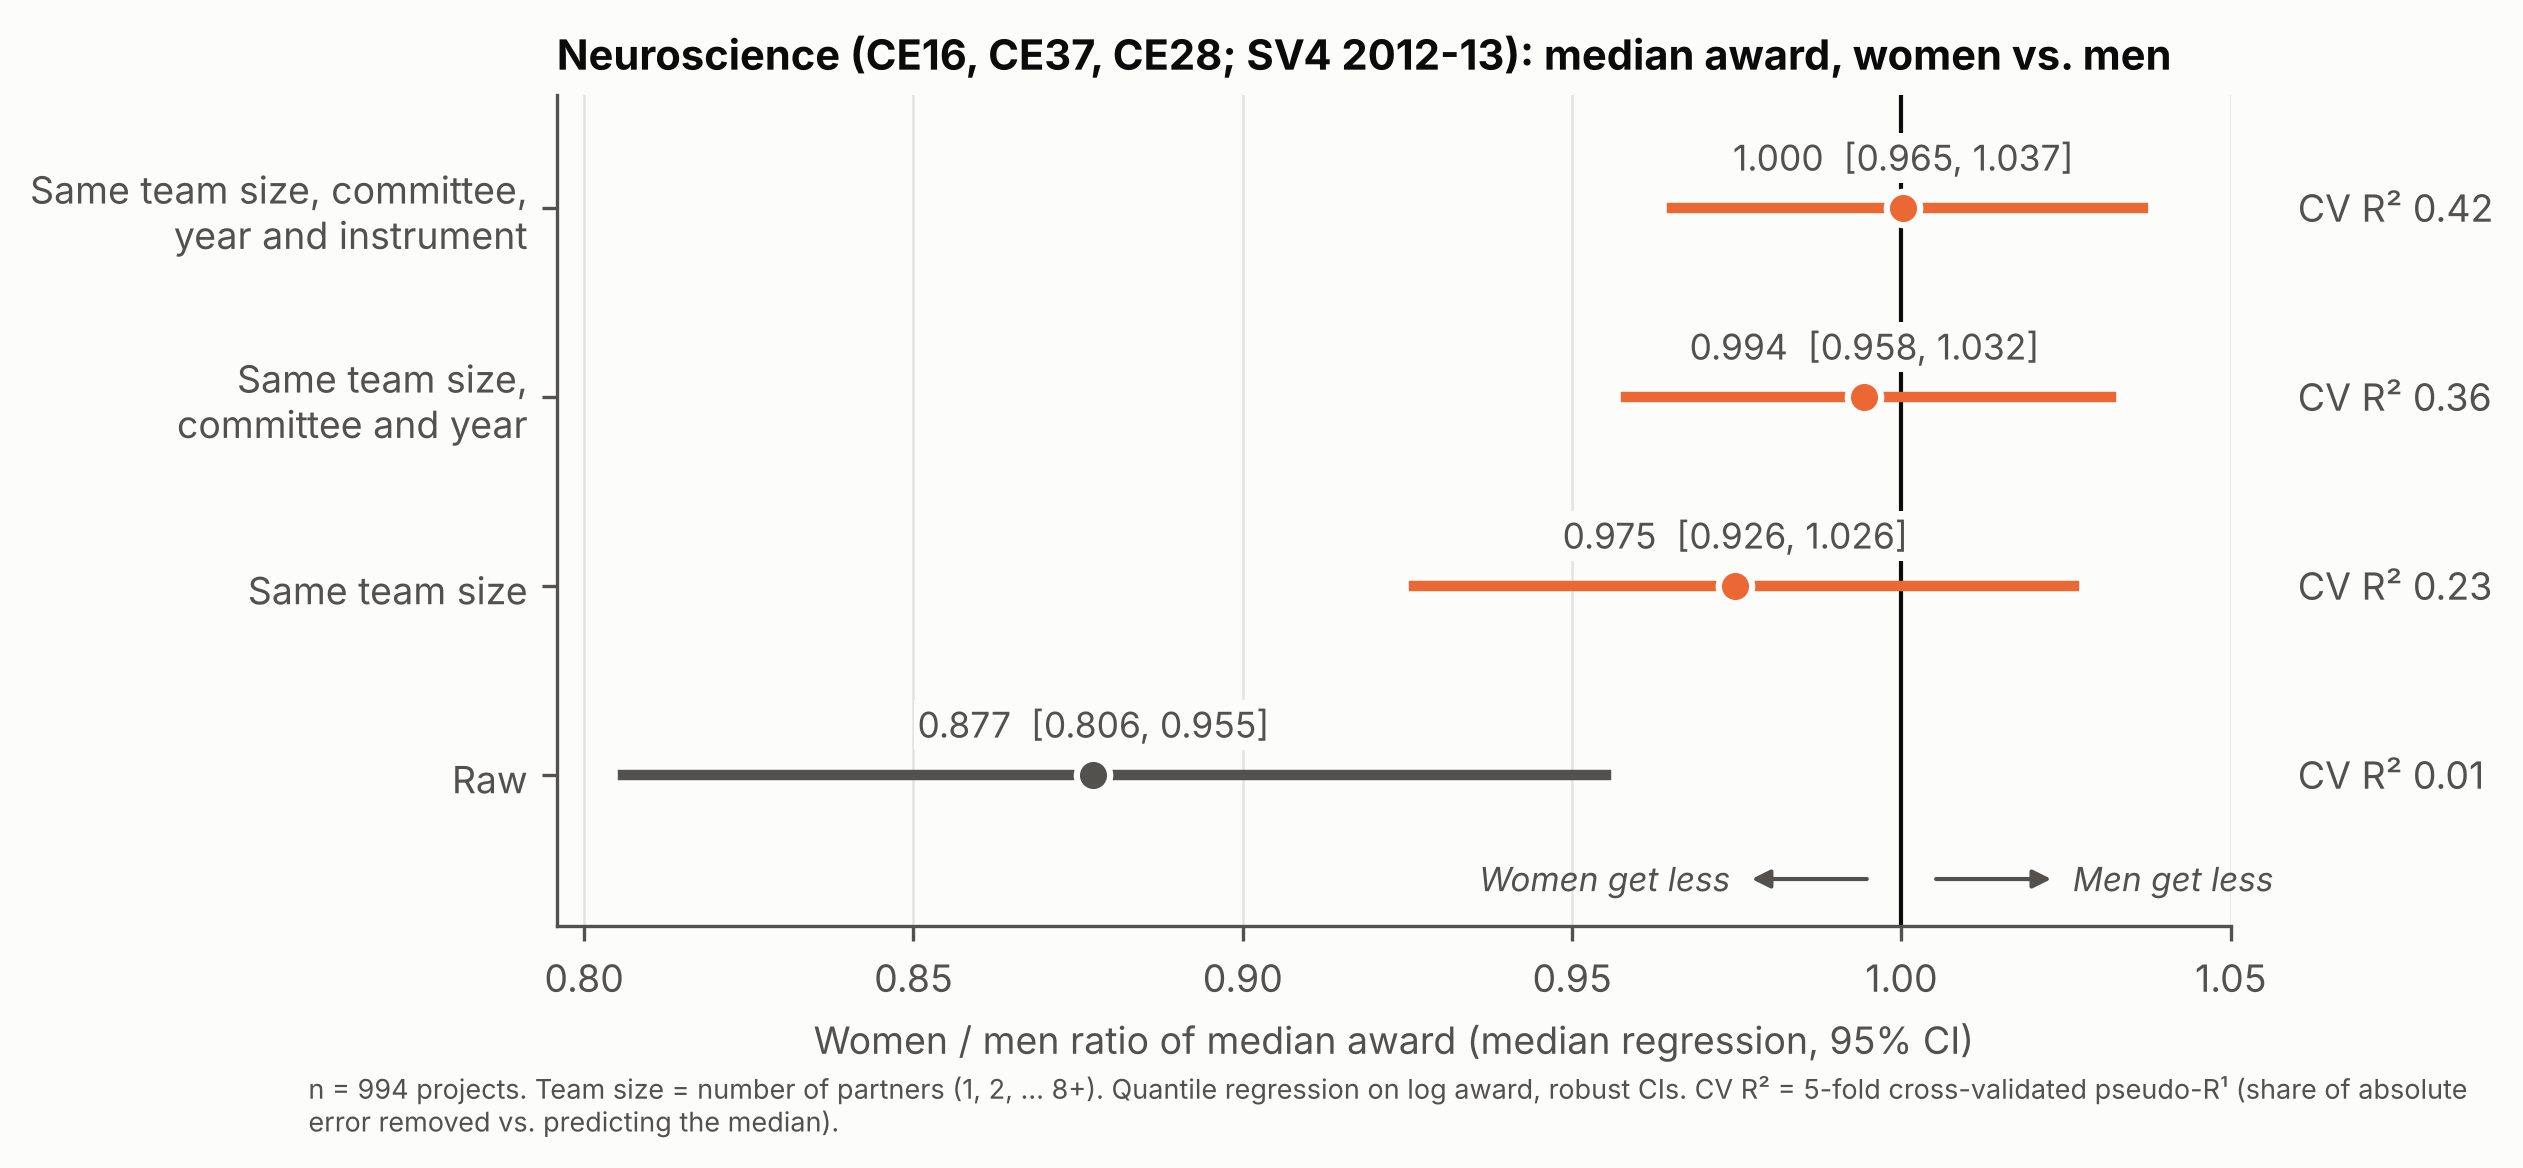
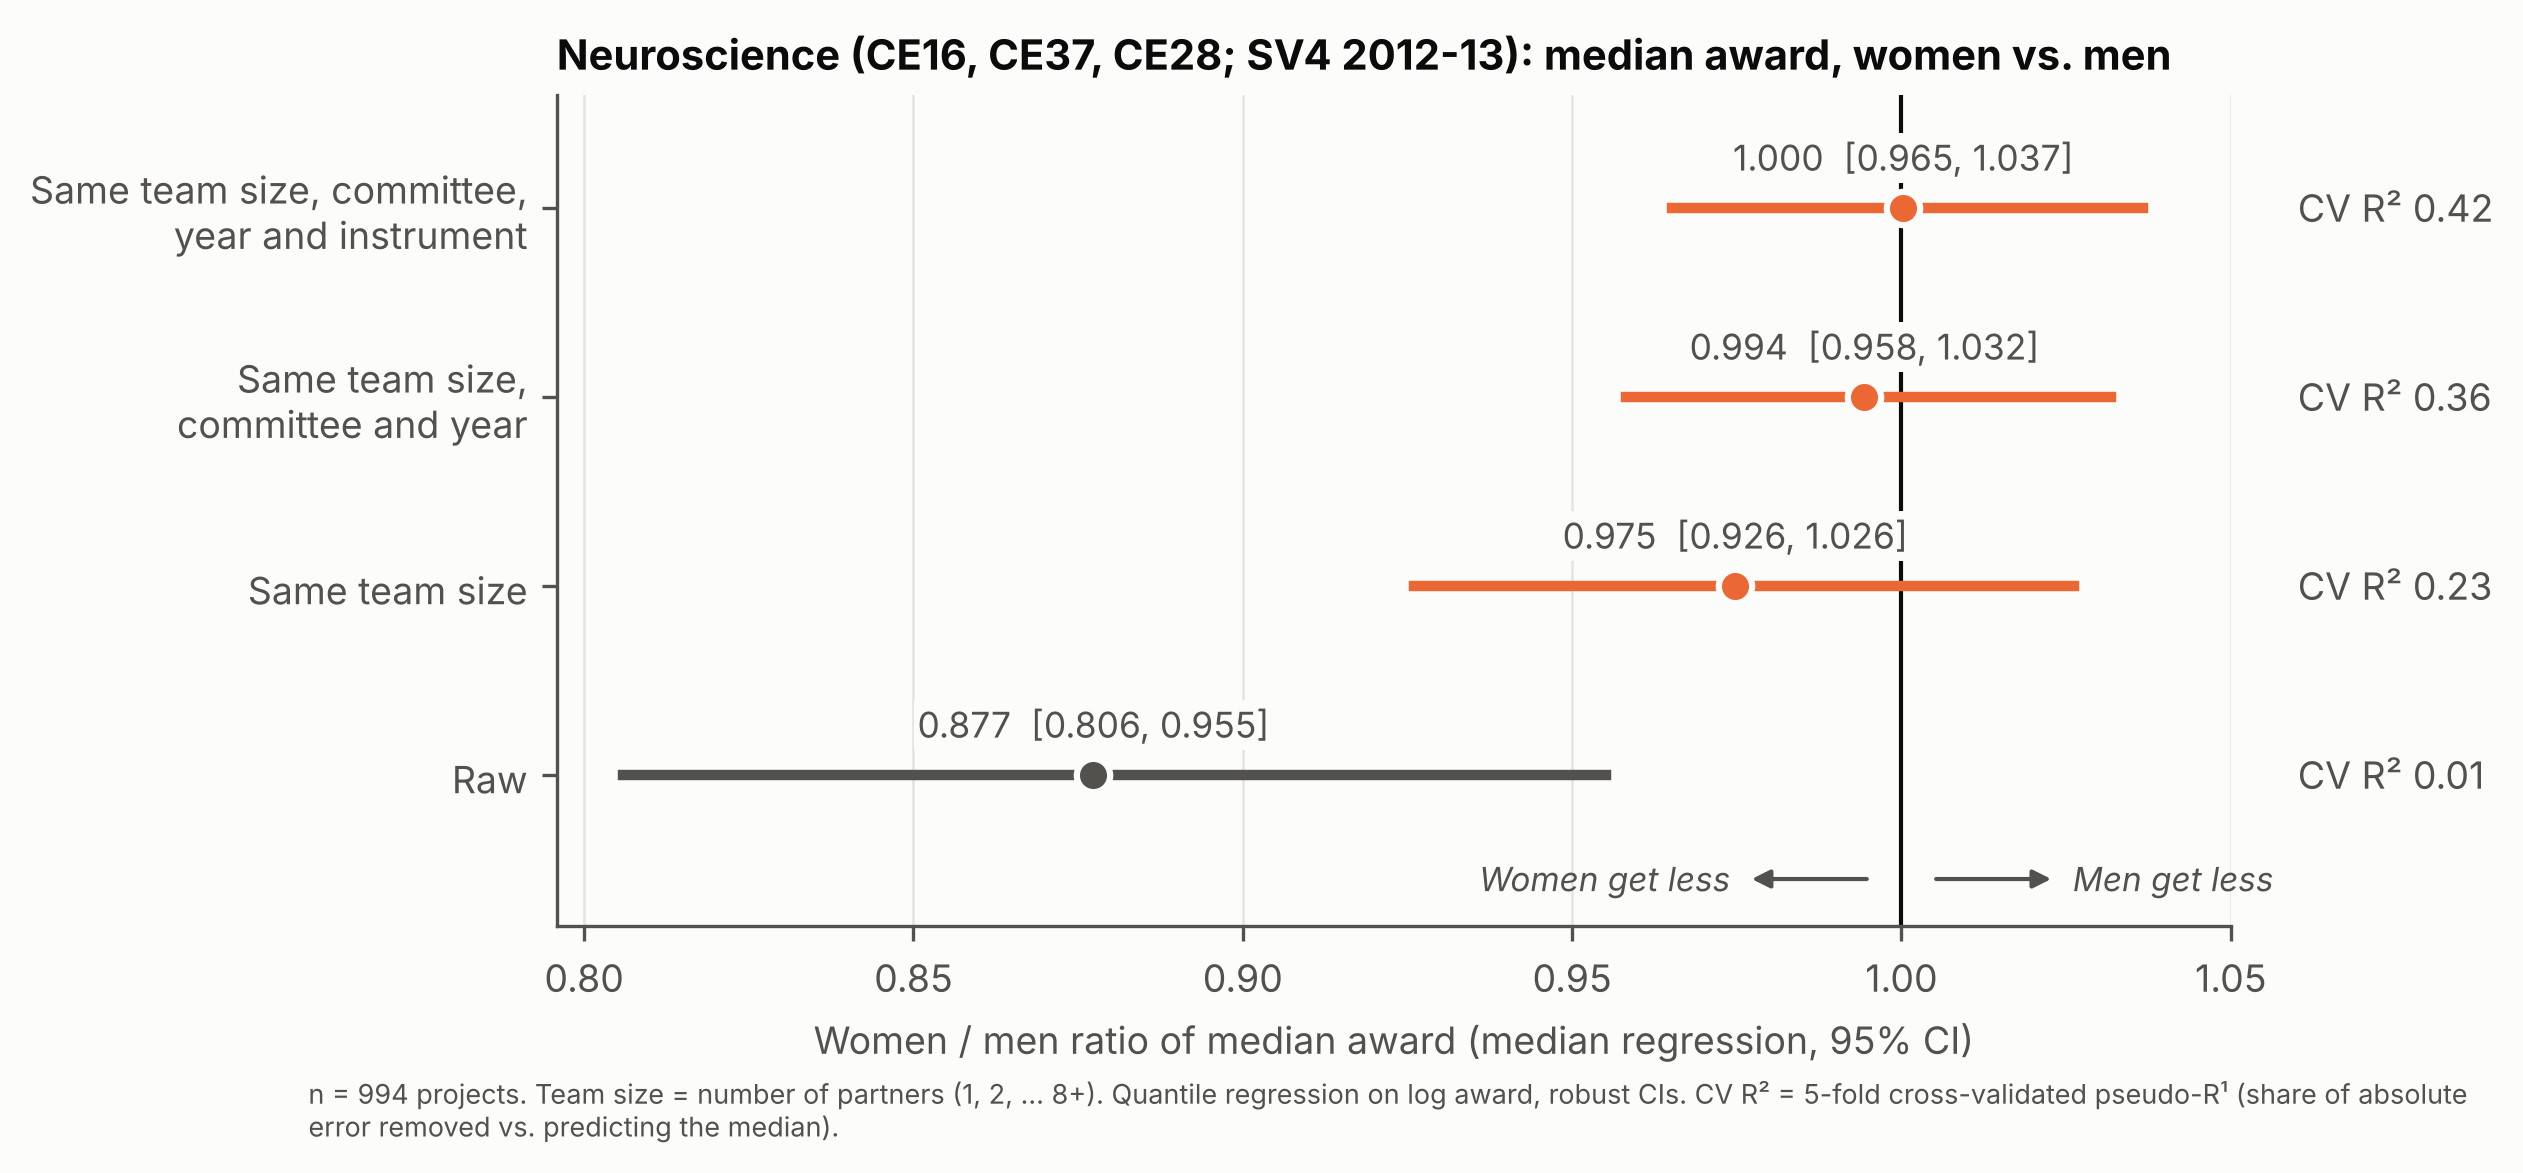
Add full-model / STEM / non-STEM row figure; share row-plot code
Claude-Session: https://claude.ai/code/session_01PAzkXMGCXxjV7L2RQiVK7i

diff --git a/anr-gender/analysis.py b/anr-gender/analysis.py
@@ -566,25 +566,13 @@ FIG2_MODELS = [  # (label in figure, key in model_fit, formula rhs)
 ]
 
 
-def raw_vs_team_size(a, fit_table, tag="", title="ANR generic call 2010-2025: median award, women vs. men"):
-    """Median regressions with increasing controls, with each model's cross-validated pseudo-R1."""
-    d = a[a.gender.isin(["F", "M"])].copy()
-    d["female"] = (d.gender == "F").astype(int)
-    d["log_amt"] = np.log(d.amount)
-    d["np_cap"] = d.n_partners.clip(upper=8).astype(int)
-    cv = fit_table.set_index("model")["cv_pseudo_R1"]
-    rows = [{"model": lab, **fit_median(d, "log_amt ~ " + rhs), "cv_pseudo_R1": cv[key]}
-            for lab, key, rhs in FIG2_MODELS]
-    t = pd.DataFrame(rows)
-    for c in ("pct", "lo", "hi"):
-        t["ratio_" + c] = 1 + t[c] / 100
-    flat = t.assign(model=t.model.str.replace("\n", " "))
-    flat.to_csv(TAB / f"2b_raw_vs_team_size{tag}.csv", index=False)
-
-    fig, ax = plt.subplots(figsize=(7.2, 3.6))
+def forest_rows(t, fname, title, note, data, grey=()):
+    """Shared row plot: one median-regression ratio per row (first row at the bottom, so slides can
+    build up by cropping from the top), direction arrows, and a CV R² label on every row."""
+    fig, ax = plt.subplots(figsize=(7.2, max(3.6, 0.9 * len(t))))
     y = list(range(len(t)))  # raw at the bottom, each added control one row up (crop from the top to build up)
     for yi, (_, r) in zip(y, t.iterrows()):
-        col = INK2 if r.model == "Raw" else C_F
+        col = INK2 if r.model in grey else C_F
         ax.plot([r.ratio_lo, r.ratio_hi], [yi, yi], color=col, lw=2.5)
         ax.plot(r.ratio_pct, yi, "o", color=col, ms=8, mec="#fcfcfb", mew=1.5)
         ax.annotate(f"{r.ratio_pct:.3f}  [{r.ratio_lo:.3f}, {r.ratio_hi:.3f}]", (r.ratio_pct, yi),
@@ -610,10 +598,29 @@ def raw_vs_team_size(a, fit_table, tag="", title="ANR generic call 2010-2025: me
     ax.set_xlabel("Women / men ratio of median award (median regression, 95% CI)")
     ax.set_title(title, loc="left")
     ax.grid(axis="y", visible=False)
-    fig.text(0.01, -0.08, f"n = {t.n.iloc[0]:,} projects. Team size = number of partners (1, 2, ... 8+). "
-             "Quantile regression on log award, robust CIs. CV R² = 5-fold cross-validated pseudo-R¹ "
-             "(share of absolute error removed vs. predicting the median).", fontsize=6.5, color=INK2, wrap=True)
-    save_fig(fig, f"fig2_raw_vs_team_size{tag}", flat)
+    fig.text(0.01, -0.03, note, fontsize=6.5, color=INK2, wrap=True, va="top")
+    save_fig(fig, fname, data)
+
+
+def raw_vs_team_size(a, fit_table, tag="", title="ANR generic call 2010-2025: median award, women vs. men"):
+    """Median regressions with increasing controls, with each model's cross-validated pseudo-R1."""
+    d = a[a.gender.isin(["F", "M"])].copy()
+    d["female"] = (d.gender == "F").astype(int)
+    d["log_amt"] = np.log(d.amount)
+    d["np_cap"] = d.n_partners.clip(upper=8).astype(int)
+    cv = fit_table.set_index("model")["cv_pseudo_R1"]
+    rows = [{"model": lab, **fit_median(d, "log_amt ~ " + rhs), "cv_pseudo_R1": cv[key]}
+            for lab, key, rhs in FIG2_MODELS]
+    t = pd.DataFrame(rows)
+    for c in ("pct", "lo", "hi"):
+        t["ratio_" + c] = 1 + t[c] / 100
+    flat = t.assign(model=t.model.str.replace("\n", " "))
+    flat.to_csv(TAB / f"2b_raw_vs_team_size{tag}.csv", index=False)
+
+    note = (f"n = {t.n.iloc[0]:,} projects. Team size = number of partners (1, 2, ... 8+). "
+            "Quantile regression on log award, robust CIs. CV R² = 5-fold cross-validated pseudo-R¹ "
+            "(share of absolute error removed vs. predicting the median).")
+    forest_rows(t, f"fig2_raw_vs_team_size{tag}", title, note, flat, grey={"Raw"})
     return t
 
 
@@ -803,6 +810,62 @@ def stem_interaction(a):
     return t
 
 
+def cv_pseudo_r1(d, rhs, k=5):
+    """5-fold cross-validated pseudo-R1 of a median regression of log award on `rhs`."""
+    import patsy
+    import scipy.linalg as sla
+    import statsmodels.api as sm
+    X = np.asarray(patsy.dmatrix(rhs, d))
+    y = d.log_amt.values
+    folds = np.random.default_rng(20261101).permutation(len(d)) % k
+    err, base = np.empty(len(d)), np.empty(len(d))
+    for f in range(k):
+        tr, te = folds != f, folds == f
+        _, r, piv = sla.qr(X[tr], mode="economic", pivoting=True)
+        dd = np.abs(np.diag(r))
+        keep = sorted(piv[: int((dd > 1e-9 * dd.max()).sum())])
+        m = sm.QuantReg(y[tr], X[tr][:, keep]).fit(q=0.5, max_iter=5000)
+        err[te] = np.abs(y[te] - X[te][:, keep] @ m.params)
+        base[te] = np.abs(y[te] - np.median(y[tr]))
+    return 1 - err.sum() / base.sum()
+
+
+def stem_figure(a):
+    """Row plot: full model (all fields) at the bottom, then STEM and non-STEM gender ratios from the
+    pooled female x STEM interaction model. Same sample (projects with a known field) for all rows."""
+    d = a[a.gender.isin(["F", "M"]) & (a.committee != "NA") & ~a.committee.str.startswith("CE9")].copy()
+    d = d.reset_index(drop=True)
+    d["female"] = (d.gender == "F").astype(int)
+    d["stem"] = (~d.domain.isin(NON_STEM_DOMAINS)).astype(int)
+    d["female_stem"] = d.female * d.stem
+    d["female_nonstem"] = d.female * (1 - d.stem)
+    d["log_amt"] = np.log(d.amount)
+    d["np_cap"] = d.n_partners.clip(upper=8).astype(int)
+    fe = "C(np_cap) + C(year) + C(instrument) + C(committee)"
+    full = fit_median(d, "log_amt ~ female + " + fe)
+    # separate female dummies per group: each coefficient is directly that group's women/men ratio
+    b, V, n = fit_median_terms(d, "log_amt ~ female_stem + female_nonstem + " + fe, ["female_stem", "female_nonstem"])
+    cv_full = cv_pseudo_r1(d, "female + " + fe)
+    cv_int = cv_pseudo_r1(d, "female_stem + female_nonstem + " + fe)
+    rows = [{"model": "Full model, all fields", "ratio_pct": 1 + full["pct"] / 100, "ratio_lo": 1 + full["lo"] / 100,
+             "ratio_hi": 1 + full["hi"] / 100, "p": full["p"], "n": full["n"], "cv_pseudo_R1": cv_full}]
+    from scipy import stats
+    for lab, j, nn in (("STEM", 0, int(d.stem.sum())), ("Non-STEM (SHS)", 1, int((1 - d.stem).sum()))):
+        se = np.sqrt(V[j, j])
+        rows.append({"model": lab, "ratio_pct": np.exp(b[j]), "ratio_lo": np.exp(b[j] - 1.96 * se),
+                     "ratio_hi": np.exp(b[j] + 1.96 * se), "p": 2 * stats.norm.sf(abs(b[j] / se)), "n": nn,
+                     "cv_pseudo_R1": cv_int})
+    t = pd.DataFrame(rows)
+    t.to_csv(TAB / "8c_stem_rows.csv", index=False)
+    note = (f"n = {len(d):,} projects with a known field ({int(d.stem.sum()):,} STEM, {int((1 - d.stem).sum()):,} SHS). "
+            "All rows: same team size, committee, year and instrument. STEM / non-STEM rows from one model with a "
+            "female × STEM interaction. Quantile regression on log award, robust CIs; CV R² = 5-fold cross-validated pseudo-R¹.")
+    forest_rows(t, "fig9_full_model_stem_vs_nonstem",
+                "ANR generic call 2010-2025: median award, women vs. men, by field", note, t,
+                grey={"Full model, all fields"})
+    return t
+
+
 def share_funding(a):
     d = a[a.gender.isin(["F", "M"])]
     g = d.groupby("year").apply(lambda s: pd.Series({
@@ -949,6 +1012,7 @@ def main():
         raw_vs_team_size(s_, mf, tag=tag, title=title)
     res["field_hist"] = field_histograms(a)
     res["stem_inter"] = stem_interaction(a)
+    res["stem_fig"] = stem_figure(a)
     res["share"] = share_funding(a)
     res["robust"] = robustness(a)
     res["pia"] = pia_context(ref)

diff --git a/anr-gender/report.md b/anr-gender/report.md
@@ -225,6 +225,10 @@ The estimates centre on 1. The heterogeneity tests are far from significant, so 
 
 In STEM, women's median award is about 1% lower than men's in comparable projects. The estimate is precise and statistically significant, but small. In SHS there is no gap. The interaction (the STEM–SHS difference) is borderline over 2010–2025 and not significant for 2014–2025, which matches the per-committee histograms.
 
+![Full model, STEM and non-STEM](figures/fig9_full_model_stem_vs_nonstem.png)
+
+`figures/fig9_full_model_stem_vs_nonstem.png` has the same layout as figure 2: the full model on all fields at the bottom (0.990 [0.982, 0.998] on this sample of 15,879 projects with a known field), then the STEM (0.988 [0.979, 0.997]) and non-STEM (1.016 [0.989, 1.043]) ratios from the interaction model.
+
 ### 6. Share of funding vs share of projects
 
 ![Share of projects vs funding](figures/fig6_share_projects_vs_funding.png)
